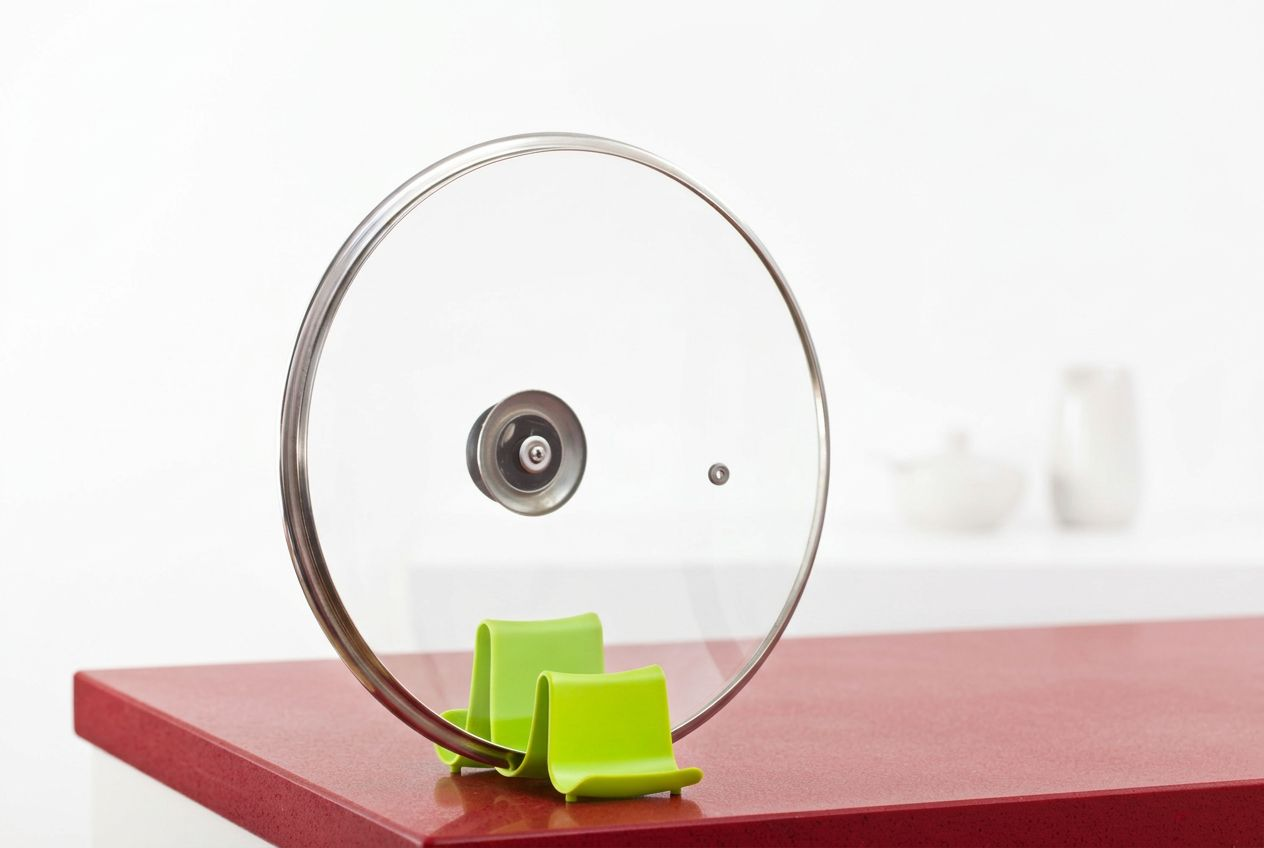
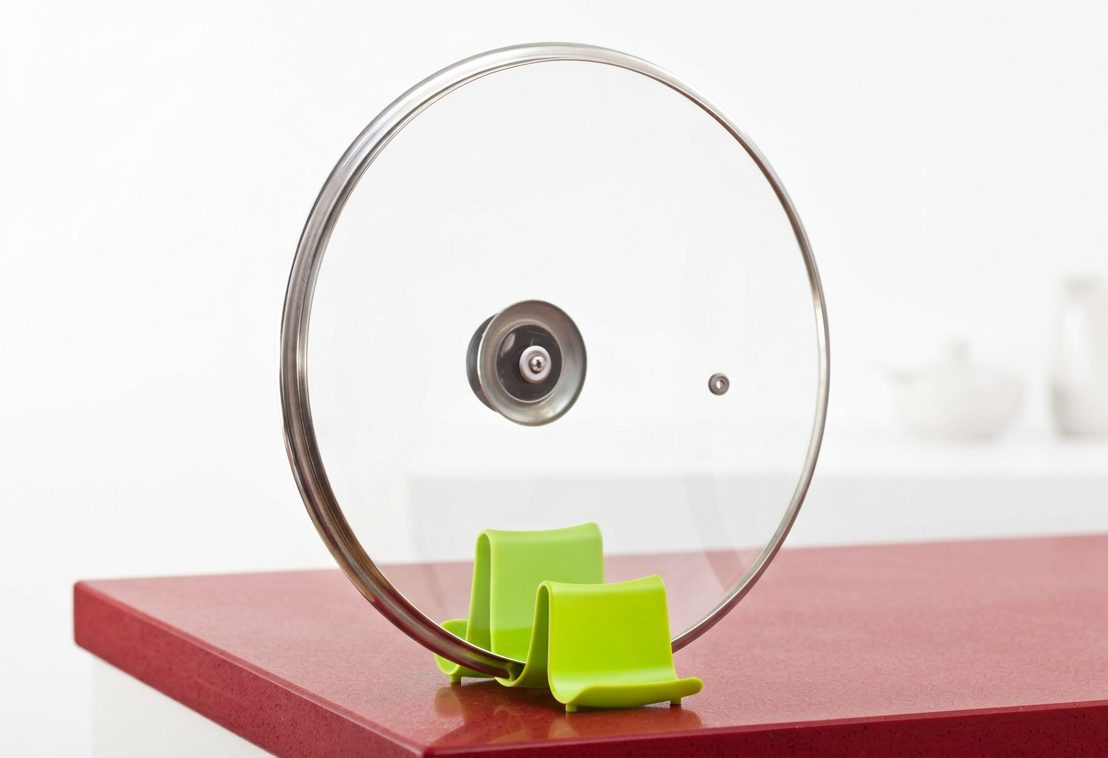
Centre the Pot Lid Stand cover; show project cover photos uncropped
- Recrop pot-lid-stand cover so the lid and stand sit in the middle
- Cover photos keep their own proportions instead of a forced 16:9 crop
- Optional cover_position setting for fine-tuning a crop

Claude-Session: https://claude.ai/code/session_01FDrXdrNQE49HaWyKezdKsz

diff --git a/assets/css/style.css b/assets/css/style.css
@@ -464,3 +464,7 @@ a.pcard__panel{display:grid;text-decoration:none;color:var(--ink)}
 
 /* tall (portrait) gallery photos: keep them a sensible height */
 .gallery__item img{max-height:760px;object-fit:contain;background:var(--sand)}
+
+/* project cover photos keep their own shape (no forced 16:9 crop) */
+.proj-cover__panel.is-photo{aspect-ratio:auto;max-height:92vh}
+.proj-cover__panel.is-photo img{height:100%;max-height:92vh;object-position:var(--pos,50% 50%)}

diff --git a/_layouts/project.html b/_layouts/project.html
@@ -44,7 +44,7 @@
       </div>
     </div>
     <figure class="wrap proj-cover">
-      <div class="proj-cover__panel{% if page.photo %} is-photo{% endif %}">
+      <div class="proj-cover__panel{% if page.photo %} is-photo{% endif %}" style="--pos:{{ page.cover_position | default: '50% 50%' }}">
         <img src="{{ page.cover }}" alt="{{ page.cover_alt | default: page.title }}" width="1600" height="1000">
       </div>
     </figure>

diff --git a/PROJECT-TEMPLATE.md b/PROJECT-TEMPLATE.md
@@ -16,6 +16,7 @@ materials: "PP, stainless steel"
 cover: /assets/img/projects/smart-kettle/cover.jpg
 cover_alt: "Smart kettle designed by KLIPYDESIGN"
 photo: true                # true = photos fill the coloured panels (use false for cut-out PNGs)
+cover_position: "50% 50%"  # optional — which part of the cover stays visible if cropped (left/top %)
 gallery:                   # optional — delete these lines if you have no extra photos
   - image: /assets/img/projects/smart-kettle/sketch.jpg
     caption: Early sketches
